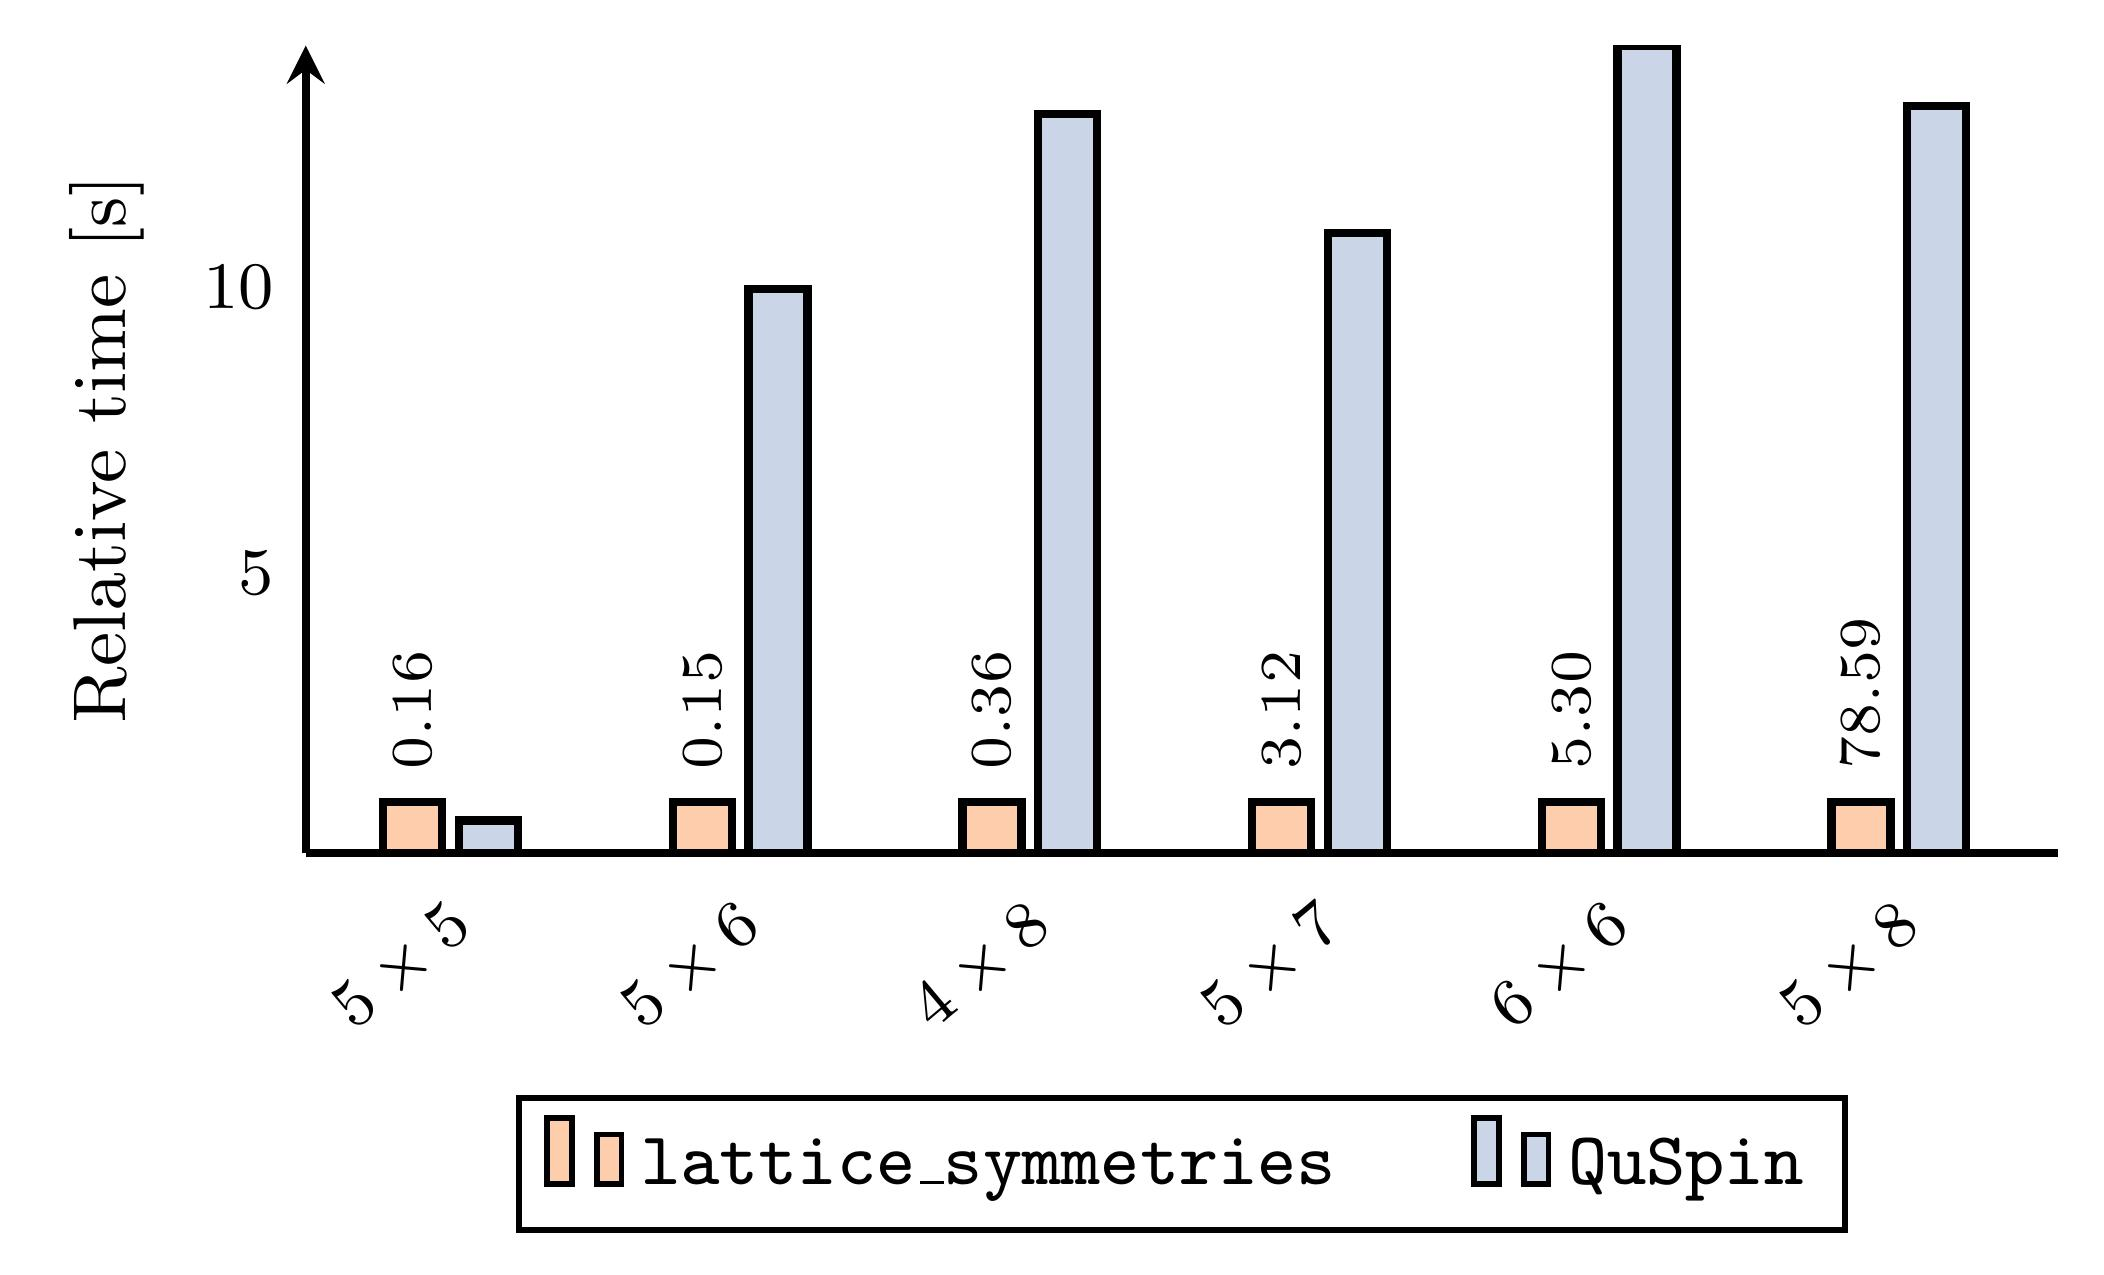
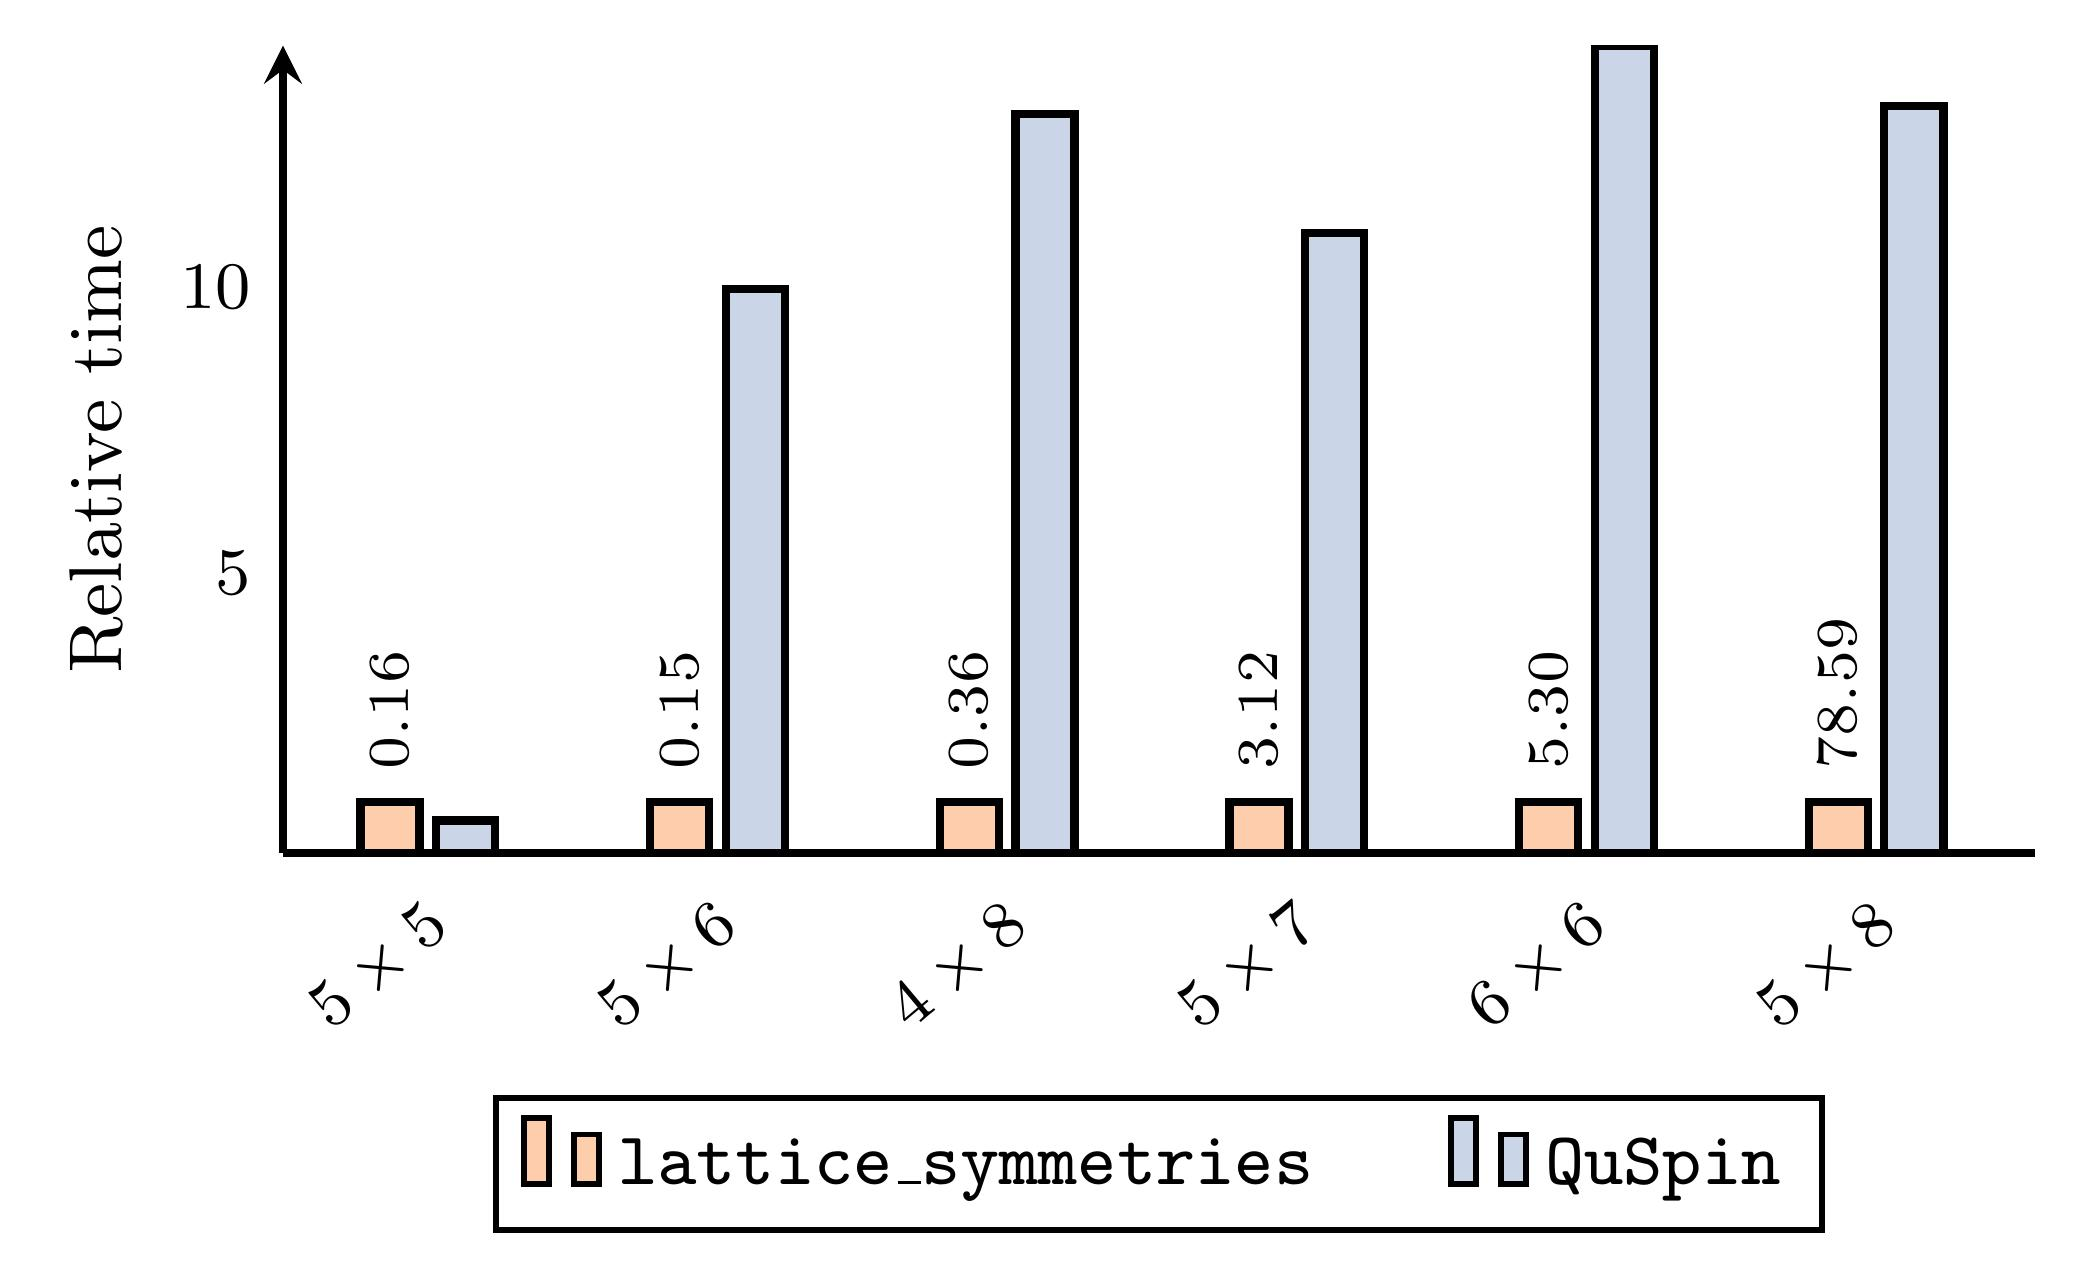
Typo fix

diff --git a/benchmark/01_basis_construction.tex b/benchmark/01_basis_construction.tex
@@ -13,7 +13,7 @@
     \begin{axis}[
        ybar,
        width=9cm, height=5cm,
-       ylabel={\small Relative time [s]},
+       ylabel={\small Relative time},
        axis x line*=bottom,
        axis y line=left,
        bar width=0.25cm,
